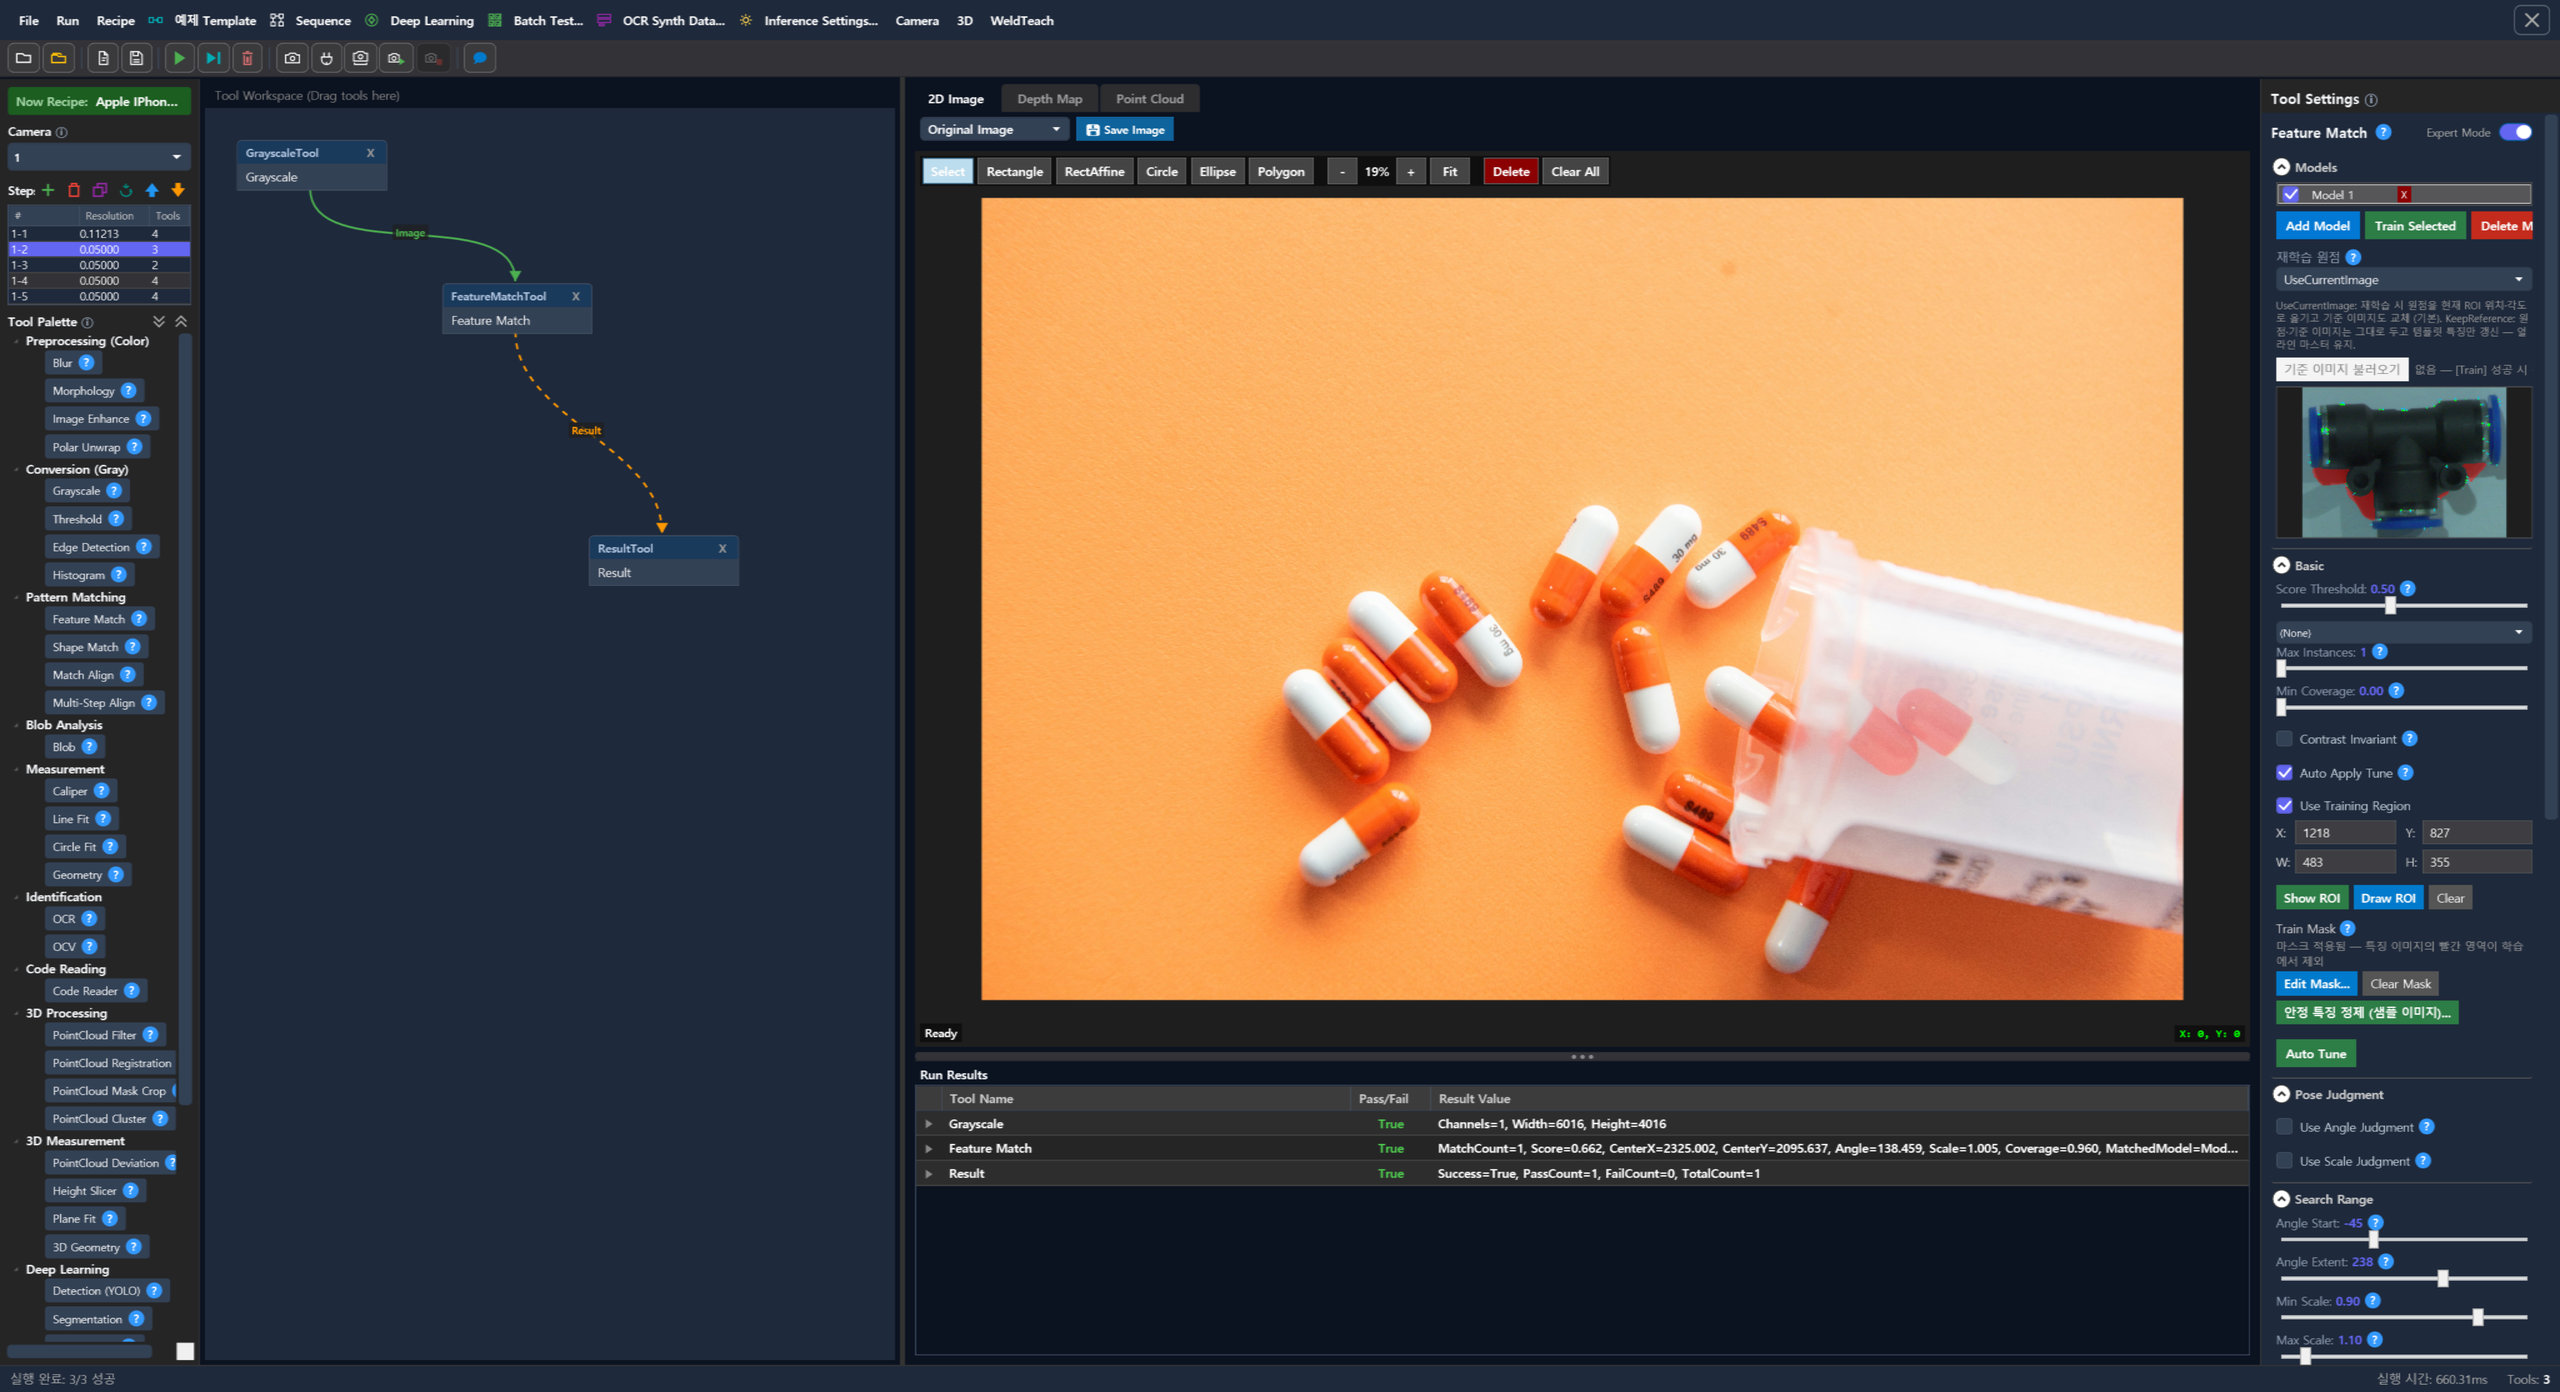
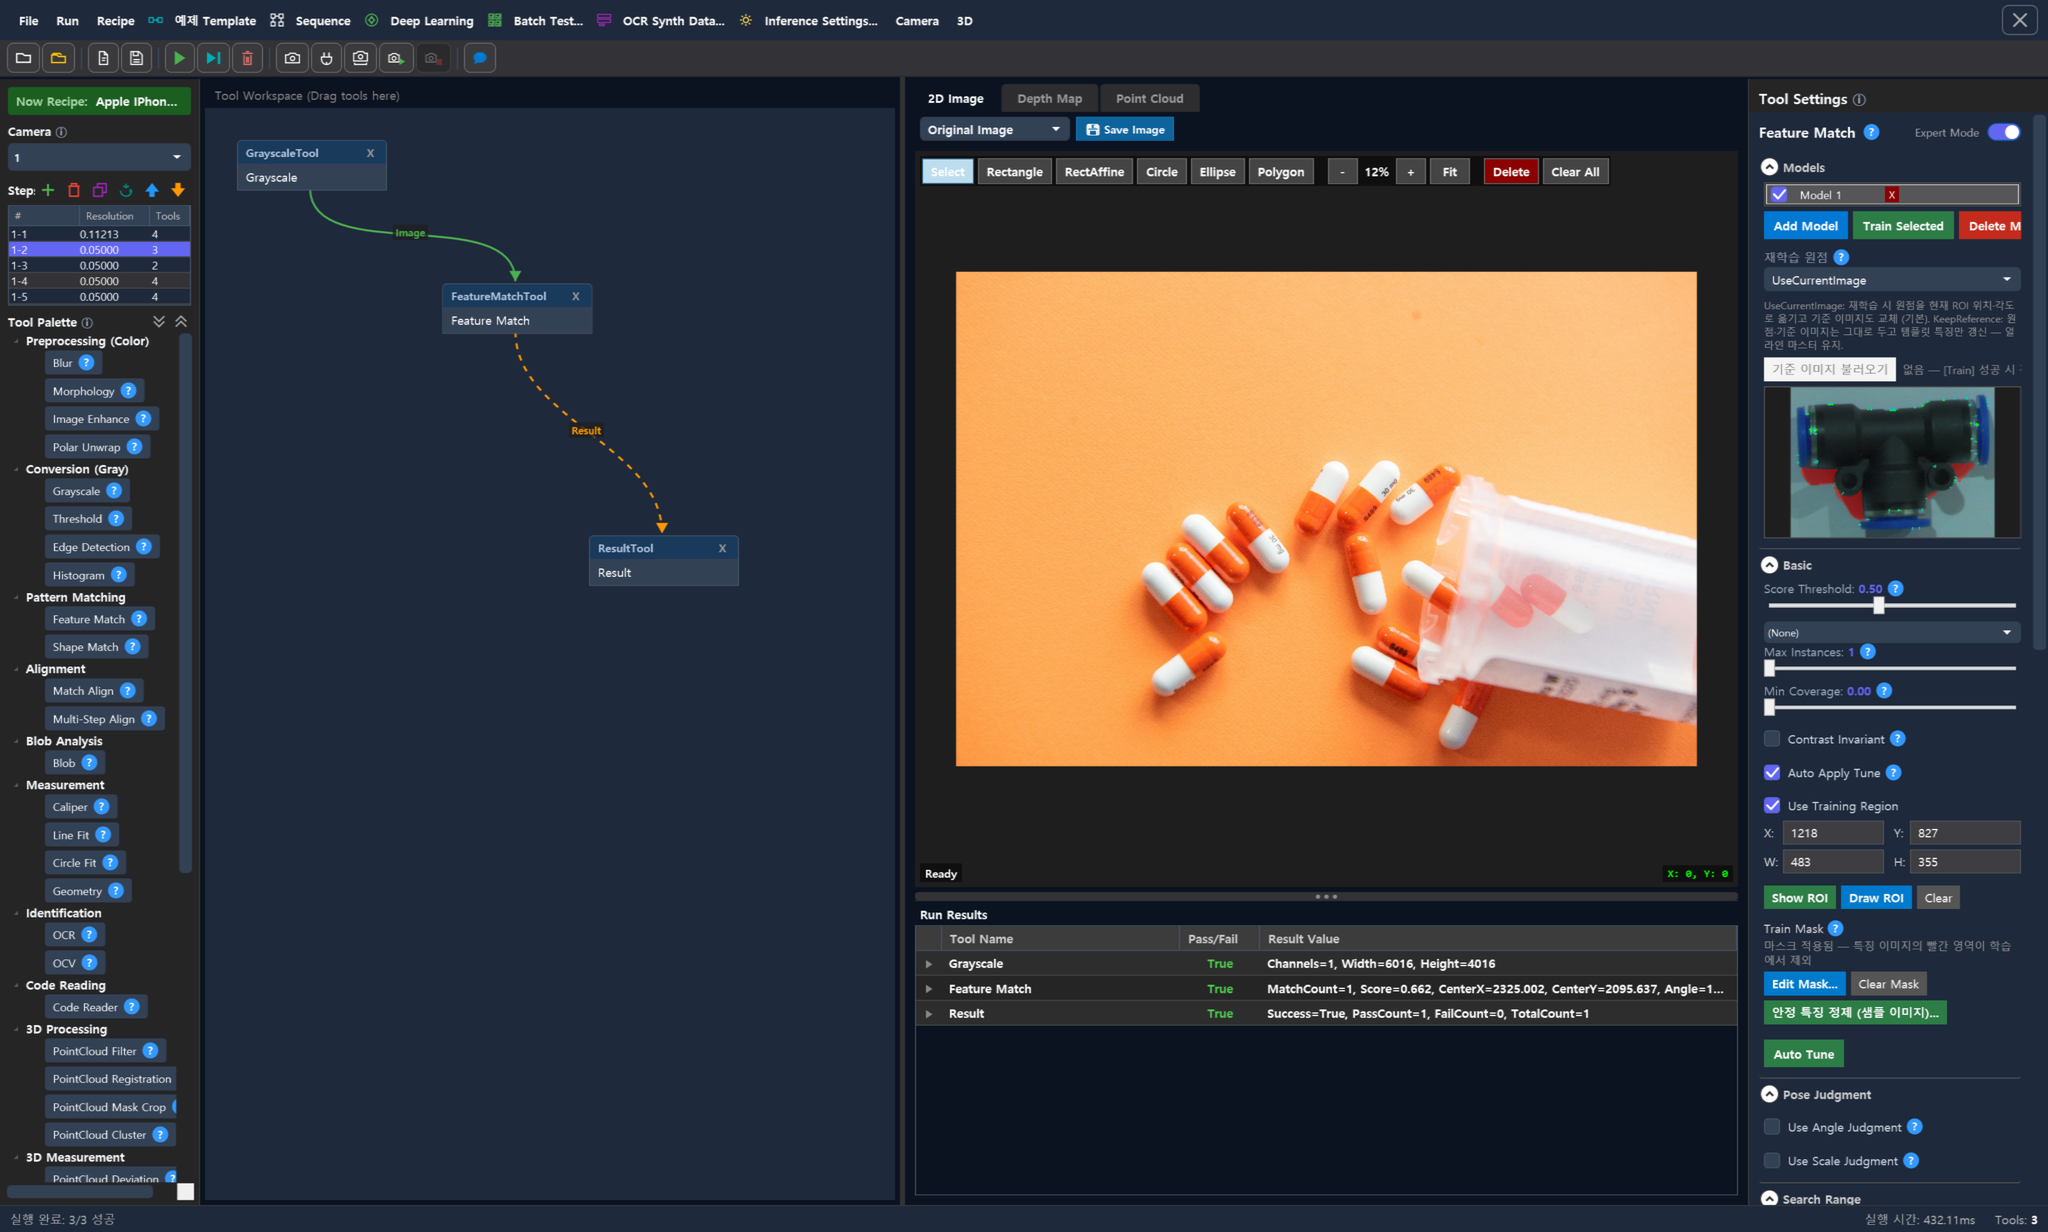
docs(gs): VisionSetup 메인 화면 스크린샷 재캡처 — 팔레트 Alignment 카테고리·WeldTeach 메뉴 제거 반영 (#506 후속)

diff --git a/docs/gs/manual_change_history.md b/docs/gs/manual_change_history.md
@@ -1013,9 +1013,11 @@ Mode 를 TwoPoint 로 바꾼 것과 같은 구성이라, 갤러리에서 고른 
   다른 장에서 §6.4 이상을 참조하는 곳은 없음(§6.1·§6.3 참조만 존재).
 - 생성기: `gen_tools_chapter.py` ORDER 분리, `extract_tool_params.py` 카테고리 → `_tool_params.json`.
 
-### 스크린샷 — 재캡처 대기
+### 스크린샷 — 재캡처 완료 (2026-09-17)
 
-- `vs/full_main_scene.png` (§5 메인 화면): 팔레트 트리에 Pattern Matching 아래 Match Align 이 보이고
-  상단 메뉴에 제거된 WeldTeach 가 남아 있다. 실 레시피·이미지가 필요한 장면 캡처라 다음 캡처 회차에
-  갱신([[project_manual_v3_overhaul]] 장면 캡처 절차, `--instance` 격리 필수).
+- `vs/full_main_scene.png` (§5 메인 화면): 팔레트 트리에 Alignment 카테고리(Match Align · Multi-Step Align)가
+  보이고 제거된 WeldTeach 메뉴가 사라진 상태로 재캡처. `capture_visionsetup_scene.ps1` 장면 1 과 같은
+  조건(mancap 인스턴스 · recipe_apple_iphone17_pro 스텝 4 · RefImages 기준 이미지 · Feature Match 선택)으로
+  `--capture-fullpage` 실행 후 원본 1/2 축소. **크기 2048×1232**(이전 2560×1392) — 캡처 코드가 주 모니터
+  작업 영역을 창 크기로 쓰므로 캡처 PC 의 주 모니터에 따라 달라진다. 매뉴얼은 data-width 620 고정이라 영향 없음.
 - 별건: GS 제품설명서 생성기 `gen_product_description.js` 의 "팔레트 12 카테고리" 표는 이미 구식(현재 15).
